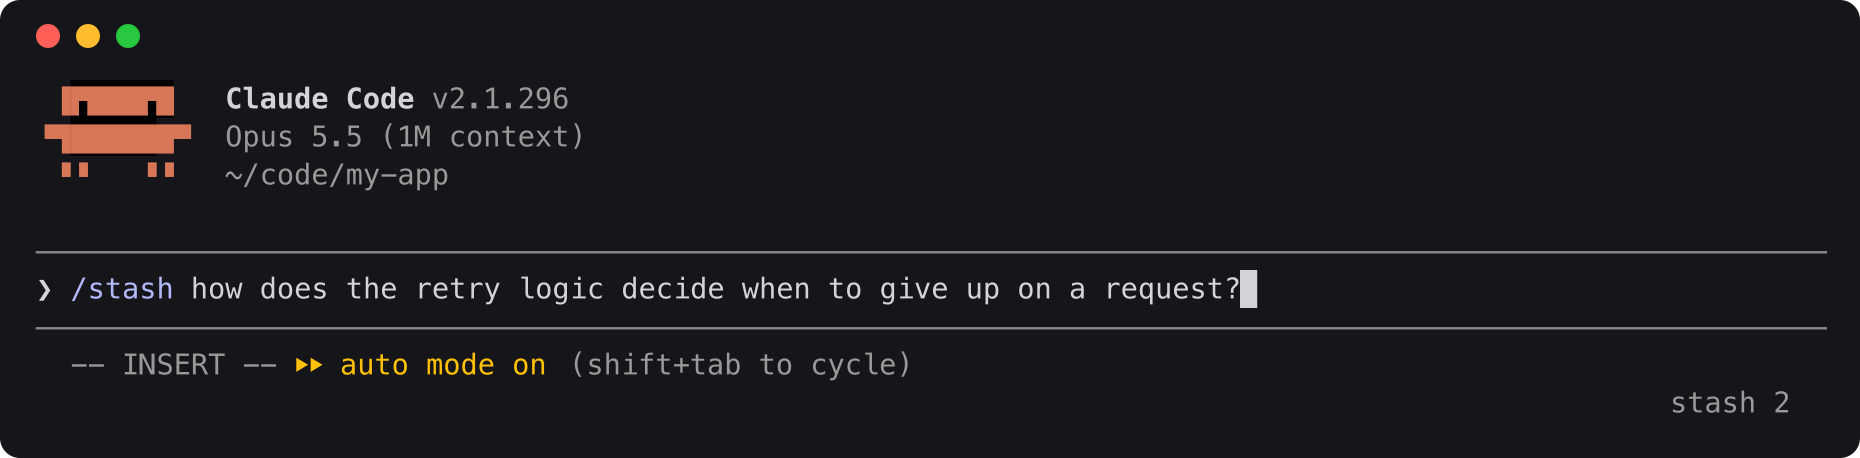
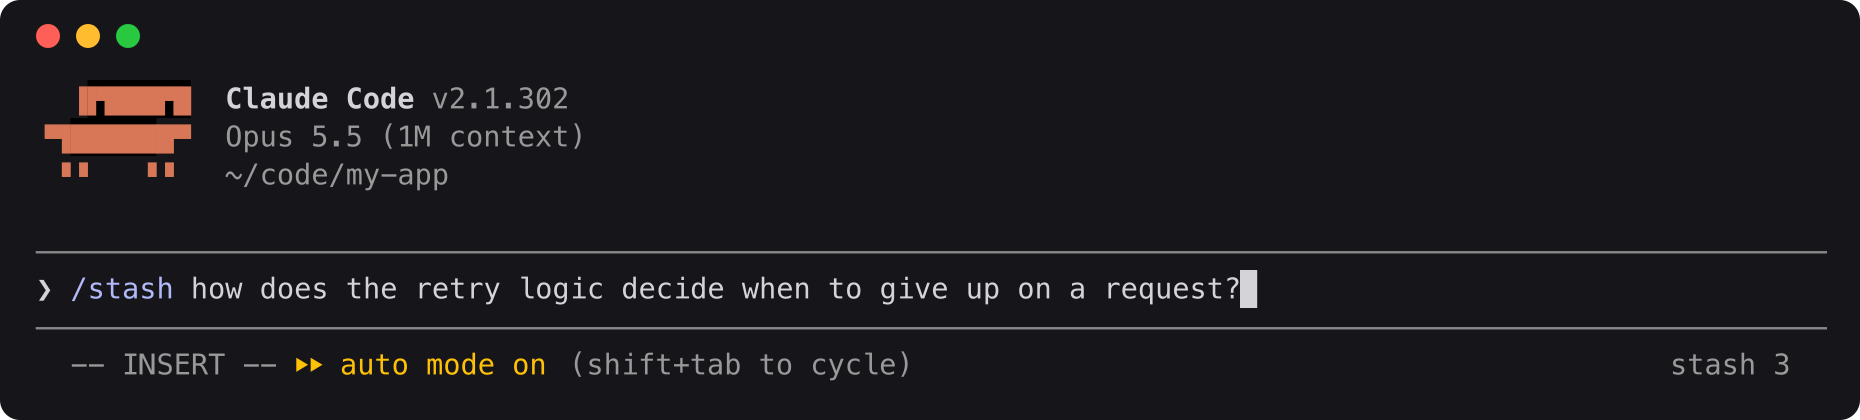
Add screenshot script (task shots); re-shoot docs for yank and the new picker keys

diff --git a/scripts/screenshots/render.py b/scripts/screenshots/render.py
@@ -1,0 +1,105 @@
+"""Render a drive.py screen capture (<name>.json) to SVG. Usage: render.py <in.json> <out.svg>
+
+Reads PSTASH_SHOTS, to shorten the demo project's path to ~/code/my-app, and PSTASH_REPO,
+to show the picker's version as an installed copy draws it.
+"""
+import json, os, sys
+from html import escape
+
+CW, CH, PAD = 8.6, 19, 18
+BG, FG = '#16161a', '#d4d4d8'
+NAMED = {
+    'black': '#3f3f46', 'red': '#f87171', 'green': '#4ade80', 'brown': '#facc15', 'yellow': '#facc15',
+    'blue': '#60a5fa', 'magenta': '#c084fc', 'cyan': '#22d3ee', 'white': '#e4e4e7',
+    'brightblack': '#71717a', 'brightred': '#fca5a5', 'brightgreen': '#86efac', 'brightyellow': '#fde68a',
+    'brightblue': '#93c5fd', 'brightmagenta': '#d8b4fe', 'brightcyan': '#67e8f9', 'brightwhite': '#fafafa',
+}
+VERSION = json.load(open(f"{os.environ['PSTASH_REPO']}/.claude-plugin/plugin.json"))['version']
+APP = os.path.realpath(f"{os.environ['PSTASH_SHOTS']}/my-app")
+
+
+def color(value, default):
+    if value == 'default':
+        return default
+    if value in NAMED:
+        return NAMED[value]
+    return f'#{value}' if len(value) == 6 else default
+
+
+rows = json.load(open(sys.argv[1]))
+# start at the logo; drop the user's settings warnings above it
+start = next(i for i, row in enumerate(rows) if '▐▛' in ''.join(c[0] for c in row))
+rows = rows[start:]
+# a warning drawn on the logo's row first can leave a cell or two beside it
+logo = ''.join(c[0] for c in rows[0]).index('▐▛')
+for c in rows[0][:logo]:
+    c[0] = ' '
+# cosmetic: drop the notice about this demo sharing a name with the parent session
+rows = [r for r in rows if 'Another live session' not in ''.join(c[0] for c in r)]
+# collapse runs of blank rows to one
+kept = []
+for row in rows:
+    blank = not ''.join(c[0] for c in row).strip()
+    if blank and kept and kept[-1][1]:
+        continue
+    kept.append((row, blank))
+while kept and kept[-1][1]:
+    kept.pop()
+rows = [r for r, _ in kept]
+
+
+# cosmetic: drop the session label inherited from the parent session, shorten the demo path
+def swap(row, old, new):
+    text = ''.join(c[0] for c in row)
+    at = text.find(old)
+    if at < 0:
+        return
+    new = new.ljust(len(old), new[-1] if new and new[-1] == '─' else ' ')
+    for i, ch in enumerate(new):
+        row[at + i][0] = ch
+
+
+for row in rows:
+    text = ''.join(c[0] for c in row)
+    if text.lstrip().startswith('─') and ' ─' in text.rstrip()[-2:] + ' ─':
+        label = text.rstrip()
+        cut = label.rfind('── ')
+        if cut > 0 and not label[cut + 3:].startswith('─'):
+            swap(row, label[cut + 2:], '─' * (len(label) - cut - 2))
+            plain = next(c for c in row if c[0] == '─')
+            for c in row[cut:len(label)]:
+                c[1:] = plain[1:]  # border style over the old label's
+    swap(row, APP, '~/code/my-app')
+    swap(row, ' · Amazon Bedrock', '')
+    swap(row, 'v' + VERSION + ' · local', ('v' + VERSION).rjust(len(VERSION) + 9))  # README shows the installed look
+
+cols = len(rows[0])
+width, height = cols * CW + 2 * PAD, len(rows) * CH + 2 * PAD + 22
+out = [f'<svg xmlns="http://www.w3.org/2000/svg" width="{width:.0f}" height="{height:.0f}">',
+       f'<rect width="100%" height="100%" rx="10" fill="{BG}"/>']
+for i, dot in enumerate(['#ff5f57', '#febc2e', '#28c840']):
+    out.append(f'<circle cx="{PAD + 6 + i * 20}" cy="{PAD}" r="6" fill="{dot}"/>')
+top = PAD + 22
+out.append(f'<g font-family="Menlo, monospace" font-size="14.3" xml:space="preserve">')
+for y, row in enumerate(rows):
+    x = 0
+    while x < cols:
+        ch, fg, bg, bold, reverse, italic = row[x]
+        run = [ch]
+        nx = x + 1
+        while nx < cols and row[nx][1:] == row[x][1:]:
+            run.append(row[nx][0])
+            nx += 1
+        fgc, bgc = color(fg, FG), color(bg, None)
+        if reverse:
+            fgc, bgc = (bgc or BG), fgc
+        px, py = PAD + x * CW, top + y * CH
+        if bgc:
+            out.append(f'<rect x="{px:.1f}" y="{py:.1f}" width="{len(run) * CW:.1f}" height="{CH}" fill="{bgc}"/>')
+        text = ''.join(run)
+        if text.strip():
+            style = (' font-weight="bold"' if bold else '') + (' font-style="italic"' if italic else '')
+            out.append(f'<text x="{px:.1f}" y="{py + CH * 0.75:.1f}" fill="{fgc}"{style} textLength="{len(run) * CW:.1f}" lengthAdjust="spacingAndGlyphs">{escape(text)}</text>')
+        x = nx
+out.append('</g></svg>')
+open(sys.argv[2], 'w').write('\n'.join(out))

diff --git a/scripts/screenshots/drive.py b/scripts/screenshots/drive.py
@@ -1,0 +1,70 @@
+"""Drive a real `claude --plugin-dir` session in a pty and snapshot its screen.
+
+Usage: drive.py <steps.json> <out-dir>. Each step: {"keys": str, "type": bool?, "wait": secs, "shot": name?}.
+Reads PSTASH_REPO (the plugin checkout) and PSTASH_SHOTS (the work dir with my-app/ and store/).
+"""
+import json, os, pty, select, sys, time
+
+import pyte
+
+COLS, ROWS = 104, 26
+REPO = os.environ['PSTASH_REPO']
+WORK = os.environ['PSTASH_SHOTS']
+APP = f'{WORK}/my-app'
+
+steps = json.load(open(sys.argv[1]))
+out = sys.argv[2]
+os.makedirs(out, exist_ok=True)
+
+screen = pyte.Screen(COLS, ROWS)
+stream = pyte.ByteStream(screen)
+env = dict(os.environ, PSTASH_DIR=f'{WORK}/store', COLUMNS=str(COLS), LINES=str(ROWS), TERM='xterm-256color', COLORTERM='truecolor')
+# the child must not think it runs inside this (or another) Claude Code session
+for k in [k for k in env if k.startswith(('CLAUDE_CODE_', 'HERDR_')) or k == 'CLAUDECODE']:
+    env.pop(k)
+pid, fd = pty.fork()
+if pid == 0:
+    os.chdir(APP)
+    import fcntl, struct, termios
+    fcntl.ioctl(0, termios.TIOCSWINSZ, struct.pack('HHHH', ROWS, COLS, 0, 0))
+    os.execvpe('claude', ['claude', '--name', 'my-app', '--plugin-dir', REPO], env)
+
+import fcntl, struct, termios
+fcntl.ioctl(fd, termios.TIOCSWINSZ, struct.pack('HHHH', ROWS, COLS, 0, 0))
+
+
+def pump(secs):
+    end = time.time() + secs
+    while time.time() < end:
+        r, _, _ = select.select([fd], [], [], 0.05)
+        if r:
+            try:
+                data = os.read(fd, 65536)
+            except OSError:
+                return
+            stream.feed(data)
+
+
+def snapshot(name):
+    rows = []
+    for y in range(ROWS):
+        line = screen.buffer[y]
+        rows.append([[line[x].data, line[x].fg, line[x].bg, line[x].bold, line[x].reverse, line[x].italics] for x in range(COLS)])
+    json.dump(rows, open(f'{out}/{name}.json', 'w'))
+    open(f'{out}/{name}.txt', 'w').write('\n'.join(screen.display))
+
+
+pump(10)
+for step in steps:
+    keys = step.get('keys', '')
+    # typed text goes one char at a time; escape sequences in one write
+    parts = [keys] if keys.startswith('\x1b') or not step.get('type') else list(keys)
+    for part in parts:
+        try:
+            os.write(fd, part.encode())
+        except OSError:
+            print('\n'.join(screen.display)); sys.exit('child exited')
+        pump(0.015)
+    pump(step.get('wait', 1))
+    snapshot(step.get('shot', f"step{steps.index(step)}"))
+os.kill(pid, 9)

diff --git a/README.md b/README.md
@@ -101,6 +101,7 @@ With [Task](https://taskfile.dev):
 task check   # tsc, tests, validate --strict
 task dev     # Claude Code with this checkout instead of the installed pstash
 task prod    # update the installed pstash from GitHub, then start Claude Code
+task shots   # re-shoot the screenshots in docs/
 ```
 
 `task dev` uses `claude --plugin-dir .`, which replaces the installed pstash for that session only. Plain `claude` still uses the installed copy.
